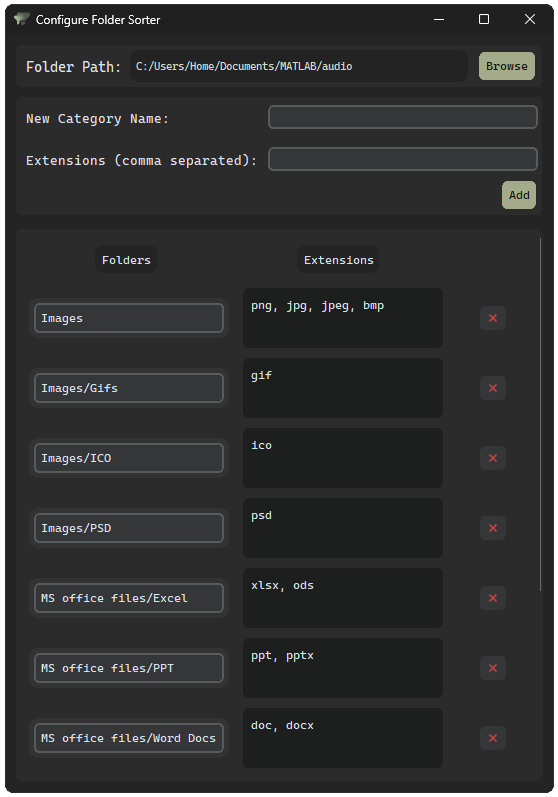
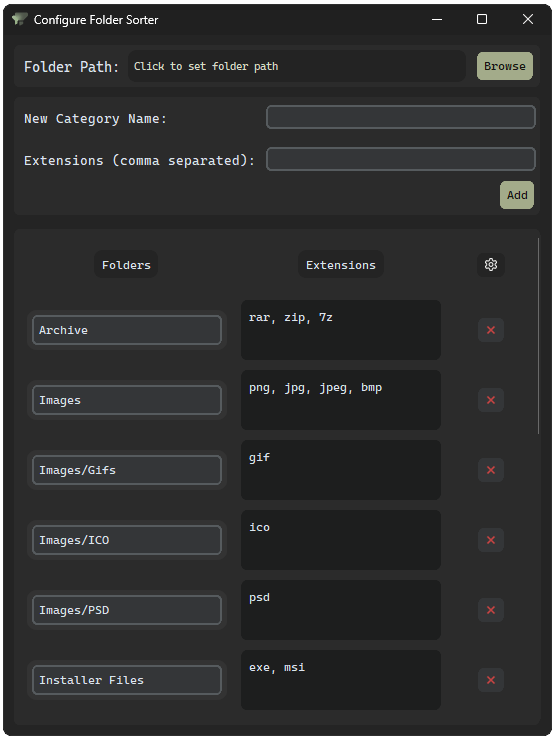
Update gui screenshot

diff --git a/readme.md b/readme.md
@@ -3,8 +3,8 @@
 A Windows system tray app to automatically sort files into categorized subfolders based on extensions. Includes a GUI for configuration.
 
 <p align="center">
-  <a href="https://github.com/user-attachments/assets/b0e2564a-45c0-41bf-9d9c-e563e1b83d3d">
-    <img src="https://github.com/user-attachments/assets/b0e2564a-45c0-41bf-9d9c-e563e1b83d3d" alt="Folder-Sorter-demo" style="max-width:100%; height:auto;">
+  <a href="https://github.com/user-attachments/assets/f4aa473d-79ba-4e57-a12e-0e0818b7a26c">
+    <img src="https://github.com/user-attachments/assets/f4aa473d-79ba-4e57-a12e-0e0818b7a26c" alt="Folder-Sorter-demo" style="max-width:100%; height:auto;">
   </a>
 </p>
 
